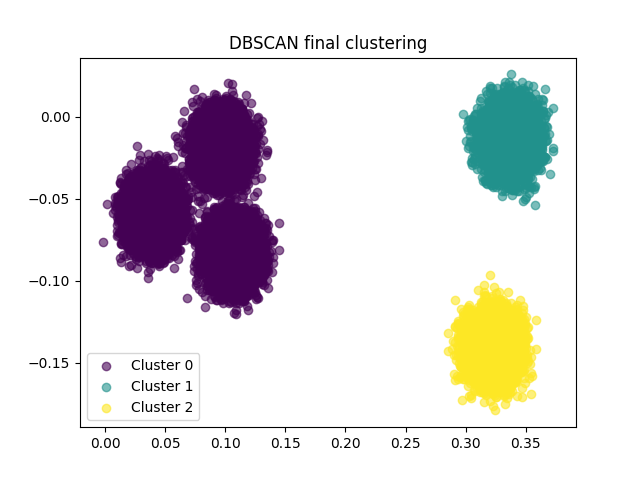
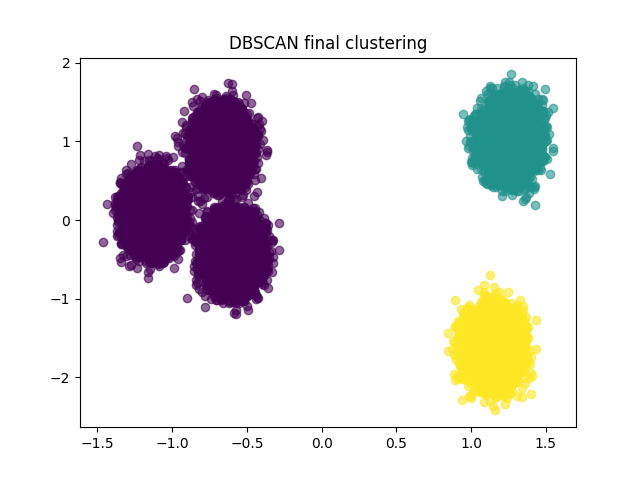
Change plots

diff --git a/algorithms/DBSCAN_auxiliar_functions.py b/algorithms/DBSCAN_auxiliar_functions.py
@@ -1,51 +1,12 @@
 import os
-from PIL import Image
 import matplotlib.pyplot as plt
 from sklearn.cluster import DBSCAN
 from sklearn.preprocessing import StandardScaler
 
 
-def plot_dbscan_experiment(df, labels, iteration, images, title_prefix=""):
+def save_dbscan_final_plot(df, eps, min_samples, results_folder, experiment_type):
     '''
-    This function plots a given clustering at a specific iteration of DBSCAN.
-    '''
-    unique_labels = set(labels)
-    fig, ax = plt.subplots()
-    
-    # Plot each cluster with a different color
-    for k in unique_labels:
-        if k == -1:
-            # Black used for noise points
-            color = 'black'
-            label_name = 'Noise'
-        else:
-            color = plt.cm.viridis(k / max(unique_labels))
-            label_name = f"Cluster {k}"
-        
-        class_member_mask = labels == k
-        ax.scatter(
-            df[class_member_mask, 0],
-            df[class_member_mask, 1],
-            c=[color],
-            label=label_name,
-            alpha=0.6
-        )
-
-    ax.set_title(f"{title_prefix} iteration {iteration}")
-    ax.legend()
-    plt.close(fig)
-
-    # Save figure to image buffer and append to the images list
-    from io import BytesIO
-    buffer = BytesIO()
-    fig.savefig(buffer, format='png')
-    buffer.seek(0)
-    images.append(Image.open(buffer))
-
-
-def dbscan_iteration_by_iteration(df, eps, min_samples, title_prefix=""):
-    '''
-    This function runs the DBSCAN algorithm and captures the clustering visualization at each iteration.
+    This function saves a .png file with the final clustering of DBSCAN.
     '''
     # Standardize data
     scaler = StandardScaler()
@@ -55,53 +16,32 @@ def dbscan_iteration_by_iteration(df, eps, min_samples, title_prefix=""):
     db = DBSCAN(eps=eps, min_samples=min_samples)
     labels = db.fit_predict(data_scaled)
 
-    # Create images list to simulate "iterations"
-    images = []
-    plot_dbscan_experiment(data_scaled, labels, iteration=0, images=images, title_prefix=title_prefix)
-
-    return labels, images
-
-
-def save_dbscan_results(df, eps, min_samples, results_folder, experiment_type):
-    '''
-    This function saves a .gif file with the evolution of DBSCAN clustering.
-    '''
-    print(f'Saving results for {experiment_type}')
-
-    # Run DBSCAN and capture visualization
-    final_labels, images = dbscan_iteration_by_iteration(df, eps, min_samples, title_prefix=experiment_type)
-
-    # Save GIF
-    gif_filename = os.path.join(results_folder, f'{experiment_type}.gif')
-    images[0].save(
-        gif_filename,
-        save_all=True,
-        append_images=images[1:],
-        loop=0,
-        duration=500
-    )
-
-    # Save final clustering visualization
-    final_plot_filename = os.path.join(results_folder, f'{experiment_type}.png')
+    # Create plot
     fig, ax = plt.subplots()
-    unique_labels = set(final_labels)
+    unique_labels = set(labels)
     for k in unique_labels:
         if k == -1:
+            # Black used for noise points
             color = 'black'
             label_name = 'Noise'
         else:
             color = plt.cm.viridis(k / max(unique_labels))
             label_name = f"Cluster {k}"
 
-        class_member_mask = final_labels == k
+        class_member_mask = labels == k
         ax.scatter(
-            df[class_member_mask, 0],
-            df[class_member_mask, 1],
+            data_scaled[class_member_mask, 0],
+            data_scaled[class_member_mask, 1],
             c=[color],
             label=label_name,
             alpha=0.6
         )
     ax.set_title(f"{experiment_type} final clustering")
-    ax.legend()
+
+    # Save final clustering visualization
+    final_plot_filename = os.path.join(results_folder, f'{experiment_type}.png')
     fig.savefig(final_plot_filename)
     plt.close(fig)
+
+    print(f"Final clustering plot saved as {final_plot_filename}")
+    return final_plot_filename

diff --git a/algorithms/Lloyd_auxiliary_functions.py b/algorithms/Lloyd_auxiliary_functions.py
@@ -56,7 +56,8 @@ def kmeans_iteration_by_iteration(df, k, initial_centers, max_iter=100, tol=1e-4
 
 def save_experiment_results(df, experiment, results_folder, experiment_type):
     '''
-    This function saves a .gif file with the evolution of a given experiment.
+    This function saves a .gif file with the evolution of a given experiment. Additionally, it saves a .png image of 
+    the finall clustering of the experiment.
     '''
     print(f'Saving results for {experiment_type}')
     initial_centers = experiment["initial_centers"]

diff --git a/algorithms/DBSCAN.py b/algorithms/DBSCAN.py
@@ -13,4 +13,4 @@ eps = 0.3
 min_samples = 10
 
 # Save DBSCAN results
-save_dbscan_results(X, eps, min_samples, results_folder, experiment_type="DBSCAN")
+save_dbscan_final_plot(X, eps, min_samples, results_folder, experiment_type="DBSCAN")
